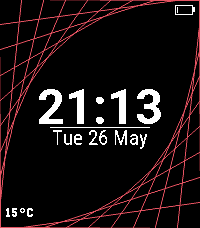
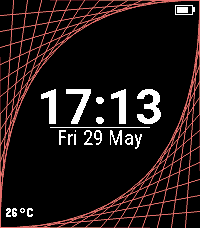
- Try to improve contrast

Changed region(s): [[0.0, 0.0, 1.0, 1.0], [0.18, 0.3684, 0.75, 0.6754]]

diff --git a/src/c/parabola_draw.c b/src/c/parabola_draw.c
@@ -16,7 +16,7 @@ static ParabolaAnimationState s_lr_state;
 
 static void prv_parabola_layer_update_proc_upper_left(Layer* layer, GContext* ctx)
 {
-  graphics_context_set_stroke_color(ctx, GColorRed);
+  graphics_context_set_stroke_color(ctx, GColorOrange);
   graphics_context_set_stroke_width(ctx, PARABOLA_LINE_WIDTH);
 
   GRect bounds = layer_get_bounds(layer);
@@ -36,7 +36,7 @@ static void prv_parabola_layer_update_proc_upper_left(Layer* layer, GContext* ct
 
 static void prv_parabola_layer_update_proc_lower_right(Layer* layer, GContext* ctx)
 {
-  graphics_context_set_stroke_color(ctx, GColorRed);
+  graphics_context_set_stroke_color(ctx, GColorOrange);
   graphics_context_set_stroke_width(ctx, PARABOLA_LINE_WIDTH);
 
   GRect bounds = layer_get_bounds(layer);
